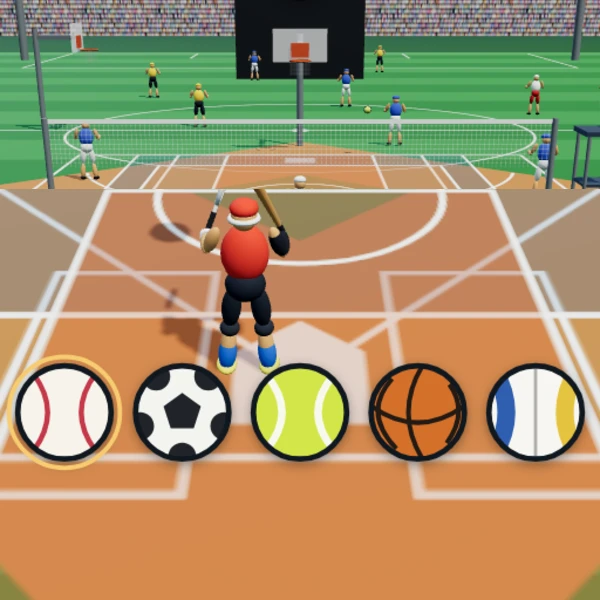
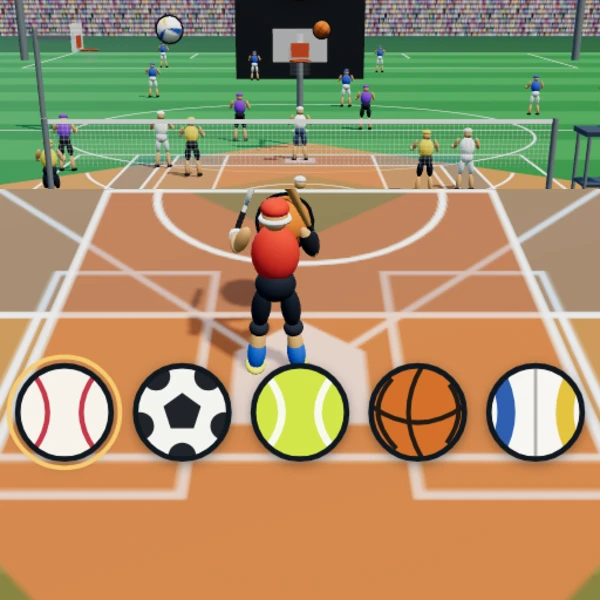
同時球技5種: 空振りは減らさない、もう一度は競技選びから、奥の人も入切に合わせる
- 振っただけでは残りが減らないようにした。減るのは球を見逃したときだけ。
  空振りには軽い音と小さな揺れだけを残した
- 結果画面の「もう一度」は、競技を選ぶところへ戻す。点と残りもそこで元に戻る。
  Esc と検証用の reset は、これまでどおり直接やり直す
- 奥に立っている人を競技ごとに割り振り、揃いの色にした。切った競技の人は出ない
  （野球は白、サッカーは青、テニスは白、バスケは紫、バレーは黄）
- 見えていない人は姿勢の計算もしない

制作中の固定リンクも doji5-20260920130611 に更新。

diff --git a/preview/index.html b/preview/index.html
@@ -3,7 +3,7 @@
 <head>
 <meta charset="UTF-8">
 <meta name="robots" content="noindex,nofollow">
-<meta name="preview-version" content="doji5-20260920125625">
+<meta name="preview-version" content="doji5-20260920130611">
 <meta name="viewport" content="width=device-width, initial-scale=1, maximum-scale=1, user-scalable=no">
 <title>同時球技5種</title>
 <style>
@@ -27,12 +27,12 @@
   <button id="start" type="button">START</button>
   <button id="share-button" type="button" aria-label="Xでシェア" hidden></button>
 </div></div>
-<script src="../games/random-bowling/vendor/three.min.js?v=doji5-20260920125625"></script>
-<script src="./scene.js?v=doji5-20260920125625"></script>
-<script src="../games/share.js?v=doji5-20260920125625"></script>
-<script src="../games/result-actions.js?v=doji5-20260920125625"></script>
-<script src="../games/action-icons.js?v=doji5-20260920125625"></script>
-<script src="../games/pad.js?v=doji5-20260920125625"></script>   <!-- ジョイパッドと、絵の外のタップ -->
+<script src="../games/random-bowling/vendor/three.min.js?v=doji5-20260920130611"></script>
+<script src="./scene.js?v=doji5-20260920130611"></script>
+<script src="../games/share.js?v=doji5-20260920130611"></script>
+<script src="../games/result-actions.js?v=doji5-20260920130611"></script>
+<script src="../games/action-icons.js?v=doji5-20260920130611"></script>
+<script src="../games/pad.js?v=doji5-20260920130611"></script>   <!-- ジョイパッドと、絵の外のタップ -->
 <script>
 /* 同時球技5種。
    野球・サッカー・テニス・バスケ・バレーの球が、ぜんぶ同じ場所へ次々に飛んでくる。
@@ -237,6 +237,13 @@
     act = null; actT = 0; actKind = null; shake = 0; pitchAt = -9; leanX = 0;
     nextArrive = 1.9; cursor = 0; flash = {};
   }
+  /* 結果から「もう一度」は、競技を選び直すところへ戻す */
+  function toIntro() {
+    newRound();
+    state = S.INTRO;
+    shareButton.hidden = true;
+    document.getElementById("start").hidden = false;
+  }
 
   function pickKind() {
     var ks = kinds(), k;
@@ -343,9 +350,10 @@
     flashes.push({ x: b.hx, y: b.hy, z: b.hz, age: 0, big: perfect });
     hitSound(b.kind, perfect);
   }
-  function whiff() {                                     /* 空振りも見逃しと同じ扱い */
-    lives--; missSound(); shake = Math.max(shake, .4);
-    if (lives <= 0) { state = S.RESULT; shareButton.hidden = false; }
+  /* 空振り。振っただけでは減らない。減るのは球を見逃したときだけ */
+  function whiff() {
+    noiseHit(.12, 900, .12, .8, 320);
+    shake = Math.max(shake, .18);
   }
 
   /* ============ 入力 ============
@@ -363,7 +371,7 @@
     audioOn();
     if (state === S.RESULT) {
       var hit = x == null ? "retry" : hitButton(x, y);
-      if (hit === "retry") newRound();
+      if (hit === "retry") toIntro();
       return;
     }
     held = true;
@@ -412,15 +420,21 @@
     if (state === S.INTRO) {
       if (num >= 0) { toggle(KEYS[num]); cursor = num; return; }
       if (flip) { toggle(list[Math.min(cursor, list.length - 1)].kind); return; }
-      return;                                  /* 開始は keyup で */
+      introArmed = true;                       /* 開始は、この指を離したとき */
+      return;
     }
     if (flip) return;
     if (num >= 0) { if (list[num]) press(list[num].kind); return; }
     if (state === S.PLAY) { if (list[cursor]) press(list[cursor].kind); return; }
     down();                                    /* 結果画面はスペースでもう一度 */
   });
+  /* 結果画面でスペースを押すと競技選びへ戻る。その指を離したぶんで
+     そのまま始まってしまわないよう、押した時点で選び画面だったときだけ開始する。 */
+  var introArmed = false;
   window.addEventListener("keyup", function (e) {
-    if (e.code === "Space" || e.key === " " || e.key === "Enter") { if (state === S.INTRO) startButton.click(); else up(); }
+    if (e.code !== "Space" && e.key !== " " && e.key !== "Enter") return;
+    if (introArmed) { introArmed = false; if (state === S.INTRO) startButton.click(); return; }
+    up();
   });
 
   function doShare() {
@@ -749,10 +763,10 @@
 <script>
 if (document.head && /^(localhost|127\.0\.0\.1)$/.test(location.hostname) && !/[?&]recorder-cli=1(?:&|$)/.test(location.search)) {
   var recorderScript = document.createElement("script");
-  recorderScript.src = "../games/_tools/recorder-ui.js?v=doji5-20260920125625";
+  recorderScript.src = "../games/_tools/recorder-ui.js?v=doji5-20260920130611";
   document.head.appendChild(recorderScript);
 }
 </script>
-<script src="./auto-reload.js?v=doji5-20260920125625"></script>
+<script src="./auto-reload.js?v=doji5-20260920130611"></script>
 </body>
 </html>

diff --git a/games/_tools/tests/doji5.js b/games/_tools/tests/doji5.js
@@ -4,9 +4,9 @@
 
    見るところ
    ・球に合うボタンを間合いで押せば当たる（5競技ぜんぶ）
-   ・違うボタンを押すと当たらず、残りが減る
-   ・何も来ていないのに押すと残りが減る
-   ・見逃すと残りが減る／残りが尽きたら結果画面
+   ・違うボタンを押しても当たらないが、振っただけでは残りは減らない
+   ・減るのは球を見逃したときだけ。尽きたら結果画面
+   ・もう一度を押すと、競技を選ぶところへ戻る
    ・はじめの画面で競技を切ると、その球は来ず、ボタンも出ない
    ・ボタン同士が63以上離れている（スマホで44px） */
 
@@ -48,7 +48,7 @@ function start(g) { g.press(" "); g.step(2); return g; }
   ok("当てているあいだは残りが減らない", g.probe.now().lives === 5, String(g.probe.now().lives));
 })();
 
-/* ---- 違うボタンを押すと当たらない ---- */
+/* ---- 違うボタンを押しても当たらない。ただし残りは減らない ---- */
 (function () {
   var g = start(load("games/_doji5/index.html", { quiet: true }));
   var kind = g.probe.toBall();
@@ -57,15 +57,15 @@ function start(g) { g.press(" "); g.step(2); return g; }
   hitPad(g, other);
   var after = g.probe.now();
   ok("違うボタンでは点が入らない", after.score === before.score, kind + " の球に " + other + " のボタン");
-  ok("違うボタンは残りが減る", after.lives === before.lives - 1, before.lives + " → " + after.lives);
+  ok("違うボタンでも残りは減らない", after.lives === before.lives, before.lives + " → " + after.lives);
 })();
 
-/* ---- 何も来ていないのに押すと残りが減る ---- */
+/* ---- 何も来ていないのに押しても減らない ---- */
 (function () {
   var g = start(load("games/_doji5/index.html", { quiet: true }));
   var before = g.probe.now().lives;
-  hitPad(g, "yakyu");                             /* 最初の球が出るより前 */
-  ok("空振りで残りが減る", g.probe.now().lives === before - 1, before + " → " + g.probe.now().lives);
+  for (var i = 0; i < 20; i++) { hitPad(g, "yakyu"); g.step(2); }   /* 最初の球が出るより前 */
+  ok("空振りを続けても残りが減らない", g.probe.now().lives === before, before + " → " + g.probe.now().lives);
   ok("空振りでは点が入らない", g.probe.now().score === 0);
 })();
 
@@ -87,7 +87,11 @@ function start(g) { g.press(" "); g.step(2); return g; }
      JSON.stringify({ state: now.state, lives: now.lives, T: Math.round(now.T * 10) / 10 }));
   ok("終わるまで十分な間がある", now.T > 4, Math.round(now.T * 10) / 10 + "秒");
   g.tap(150, g.H * .62 + 20); g.step(2);
-  ok("結果画面から、もう一度で遊びに戻る", g.probe.now().state === "play");
+  var back = g.probe.now();
+  ok("もう一度で競技を選ぶところへ戻る", back.state === "intro" && back.pads.length === 5, back.state);
+  ok("戻ったら点と残りが元に戻っている", back.score === 0 && back.lives === 5);
+  g.press(" "); g.step(2);
+  ok("そこから始められる", g.probe.now().state === "play", g.probe.now().state);
 })();
 
 /* ---- はじめの画面で競技を切る ---- */

diff --git a/games/_doji5/scene.js b/games/_doji5/scene.js
@@ -535,19 +535,27 @@ var ZDoji5Scene = (function () {
     gear.yakyu.push(mound, this.pitcher.root);
     this.ground = ground; this.fieldTex = ft; this.sportsKey = null;
 
-    /* 味方と相手。立たせておくだけ */
+    /* 奥に立っている人たち。競技ごとに揃いの色で、入切で出入りする */
+    var UNIFORM = {
+      yakyu: ['#f0f2f0', '#39506e'], soccer: ['#3e63c8', '#f0f2f0'],
+      tennis: ['#f4f6f8', '#e6e9ee'], basket: ['#7a4fd0', '#2a2f3a'],
+      volley: ['#e8c53c', '#1f2a3a']
+    };
     this.extras = [];
-    [['#3e63c8', '#f0f2f0', -6.5, 17], ['#3e63c8', '#f0f2f0', 6.2, 19.5], ['#e8c53c', '#1f2a3a', -9.5, 6],
-     ['#e8c53c', '#1f2a3a', 9.2, 9], ['#3e63c8', '#f0f2f0', -3.4, 26], ['#e8c53c', '#1f2a3a', 4.1, 31],
-     ['#f0f2f0', '#c3352c', -13, 24], ['#f0f2f0', '#c3352c', 12.6, 14], ['#3e63c8', '#f0f2f0', -2.2, 38],
-     ['#e8c53c', '#1f2a3a', 7.6, 42], ['#f0f2f0', '#c3352c', -10.5, 35], ['#3e63c8', '#f0f2f0', 13.4, 33],
-     ['#e8c53c', '#1f2a3a', -16, 12], ['#f0f2f0', '#c3352c', 15.5, 5], ['#3e63c8', '#f0f2f0', 2.8, 52],
-     ['#e8c53c', '#1f2a3a', -5.4, 58]].forEach(function (e, n) {
-      var a = makeAthlete(self.scene, { shirt: e[0], pants: e[1] });
-      a.root.position.set(e[2], 0, e[3]);
-      a.root.rotation.y = Math.PI + (e[2] > 0 ? -.3 : .3);
+    [['tennis', -4.6, 18], ['tennis', 4.3, 21.5], ['tennis', -8.6, 13],
+     ['volley', -3.4, 17.5], ['volley', 3.2, 20], ['volley', 6.4, 16],
+     ['basket', -7.6, 11], ['basket', 7.2, 21], ['basket', 2.2, 27], ['basket', -2.6, 30],
+     ['yakyu', -12, 11], ['yakyu', 12, 11], ['yakyu', 0, 23], ['yakyu', -17, 27], ['yakyu', 17, 29],
+     ['soccer', -2.2, 38], ['soccer', 7.6, 42], ['soccer', -10.5, 35], ['soccer', 13.4, 33],
+     ['soccer', 2.8, 52], ['soccer', -5.4, 58], ['soccer', 9.8, 62]
+    ].forEach(function (e, n) {
+      var u = UNIFORM[e[0]];
+      var a = makeAthlete(self.scene, { shirt: u[0], pants: u[1] });
+      a.root.position.set(e[1], 0, e[2]);
+      a.root.rotation.y = Math.PI + (e[1] > 0 ? -.3 : .3);
       a.phase = n * 1.3;
       self.extras.push(a);
+      gear[e[0]].push(a.root);
     });
 
     this.shake = 0;
@@ -693,7 +701,8 @@ var ZDoji5Scene = (function () {
     this.player.root.position.x = snap.leanX || 0;
     this.player.root.position.z = -.9;
     this.posePitcher(snap.pitch, t);
-    this.extras.forEach(function (a, i) {
+    this.extras.forEach(function (a) {
+      if (!a.root.visible) return;                       /* 出ていない競技の人は動かさない */
       self.pose(a, null, 0, t + a.phase);
       a.root.position.y = Math.abs(Math.sin(t * 2.4 + a.phase)) * .05;
     });

diff --git a/preview/scene.js b/preview/scene.js
@@ -535,19 +535,27 @@ var ZDoji5Scene = (function () {
     gear.yakyu.push(mound, this.pitcher.root);
     this.ground = ground; this.fieldTex = ft; this.sportsKey = null;
 
-    /* 味方と相手。立たせておくだけ */
+    /* 奥に立っている人たち。競技ごとに揃いの色で、入切で出入りする */
+    var UNIFORM = {
+      yakyu: ['#f0f2f0', '#39506e'], soccer: ['#3e63c8', '#f0f2f0'],
+      tennis: ['#f4f6f8', '#e6e9ee'], basket: ['#7a4fd0', '#2a2f3a'],
+      volley: ['#e8c53c', '#1f2a3a']
+    };
     this.extras = [];
-    [['#3e63c8', '#f0f2f0', -6.5, 17], ['#3e63c8', '#f0f2f0', 6.2, 19.5], ['#e8c53c', '#1f2a3a', -9.5, 6],
-     ['#e8c53c', '#1f2a3a', 9.2, 9], ['#3e63c8', '#f0f2f0', -3.4, 26], ['#e8c53c', '#1f2a3a', 4.1, 31],
-     ['#f0f2f0', '#c3352c', -13, 24], ['#f0f2f0', '#c3352c', 12.6, 14], ['#3e63c8', '#f0f2f0', -2.2, 38],
-     ['#e8c53c', '#1f2a3a', 7.6, 42], ['#f0f2f0', '#c3352c', -10.5, 35], ['#3e63c8', '#f0f2f0', 13.4, 33],
-     ['#e8c53c', '#1f2a3a', -16, 12], ['#f0f2f0', '#c3352c', 15.5, 5], ['#3e63c8', '#f0f2f0', 2.8, 52],
-     ['#e8c53c', '#1f2a3a', -5.4, 58]].forEach(function (e, n) {
-      var a = makeAthlete(self.scene, { shirt: e[0], pants: e[1] });
-      a.root.position.set(e[2], 0, e[3]);
-      a.root.rotation.y = Math.PI + (e[2] > 0 ? -.3 : .3);
+    [['tennis', -4.6, 18], ['tennis', 4.3, 21.5], ['tennis', -8.6, 13],
+     ['volley', -3.4, 17.5], ['volley', 3.2, 20], ['volley', 6.4, 16],
+     ['basket', -7.6, 11], ['basket', 7.2, 21], ['basket', 2.2, 27], ['basket', -2.6, 30],
+     ['yakyu', -12, 11], ['yakyu', 12, 11], ['yakyu', 0, 23], ['yakyu', -17, 27], ['yakyu', 17, 29],
+     ['soccer', -2.2, 38], ['soccer', 7.6, 42], ['soccer', -10.5, 35], ['soccer', 13.4, 33],
+     ['soccer', 2.8, 52], ['soccer', -5.4, 58], ['soccer', 9.8, 62]
+    ].forEach(function (e, n) {
+      var u = UNIFORM[e[0]];
+      var a = makeAthlete(self.scene, { shirt: u[0], pants: u[1] });
+      a.root.position.set(e[1], 0, e[2]);
+      a.root.rotation.y = Math.PI + (e[1] > 0 ? -.3 : .3);
       a.phase = n * 1.3;
       self.extras.push(a);
+      gear[e[0]].push(a.root);
     });
 
     this.shake = 0;
@@ -693,7 +701,8 @@ var ZDoji5Scene = (function () {
     this.player.root.position.x = snap.leanX || 0;
     this.player.root.position.z = -.9;
     this.posePitcher(snap.pitch, t);
-    this.extras.forEach(function (a, i) {
+    this.extras.forEach(function (a) {
+      if (!a.root.visible) return;                       /* 出ていない競技の人は動かさない */
       self.pose(a, null, 0, t + a.phase);
       a.root.position.y = Math.abs(Math.sin(t * 2.4 + a.phase)) * .05;
     });

diff --git a/games/_doji5/index.html b/games/_doji5/index.html
@@ -235,6 +235,13 @@
     act = null; actT = 0; actKind = null; shake = 0; pitchAt = -9; leanX = 0;
     nextArrive = 1.9; cursor = 0; flash = {};
   }
+  /* 結果から「もう一度」は、競技を選び直すところへ戻す */
+  function toIntro() {
+    newRound();
+    state = S.INTRO;
+    shareButton.hidden = true;
+    document.getElementById("start").hidden = false;
+  }
 
   function pickKind() {
     var ks = kinds(), k;
@@ -341,9 +348,10 @@
     flashes.push({ x: b.hx, y: b.hy, z: b.hz, age: 0, big: perfect });
     hitSound(b.kind, perfect);
   }
-  function whiff() {                                     /* 空振りも見逃しと同じ扱い */
-    lives--; missSound(); shake = Math.max(shake, .4);
-    if (lives <= 0) { state = S.RESULT; shareButton.hidden = false; }
+  /* 空振り。振っただけでは減らない。減るのは球を見逃したときだけ */
+  function whiff() {
+    noiseHit(.12, 900, .12, .8, 320);
+    shake = Math.max(shake, .18);
   }
 
   /* ============ 入力 ============
@@ -361,7 +369,7 @@
     audioOn();
     if (state === S.RESULT) {
       var hit = x == null ? "retry" : hitButton(x, y);
-      if (hit === "retry") newRound();
+      if (hit === "retry") toIntro();
       return;
     }
     held = true;
@@ -410,15 +418,21 @@
     if (state === S.INTRO) {
       if (num >= 0) { toggle(KEYS[num]); cursor = num; return; }
       if (flip) { toggle(list[Math.min(cursor, list.length - 1)].kind); return; }
-      return;                                  /* 開始は keyup で */
+      introArmed = true;                       /* 開始は、この指を離したとき */
+      return;
     }
     if (flip) return;
     if (num >= 0) { if (list[num]) press(list[num].kind); return; }
     if (state === S.PLAY) { if (list[cursor]) press(list[cursor].kind); return; }
     down();                                    /* 結果画面はスペースでもう一度 */
   });
+  /* 結果画面でスペースを押すと競技選びへ戻る。その指を離したぶんで
+     そのまま始まってしまわないよう、押した時点で選び画面だったときだけ開始する。 */
+  var introArmed = false;
   window.addEventListener("keyup", function (e) {
-    if (e.code === "Space" || e.key === " " || e.key === "Enter") { if (state === S.INTRO) startButton.click(); else up(); }
+    if (e.code !== "Space" && e.key !== " " && e.key !== "Enter") return;
+    if (introArmed) { introArmed = false; if (state === S.INTRO) startButton.click(); return; }
+    up();
   });
 
   function doShare() {
